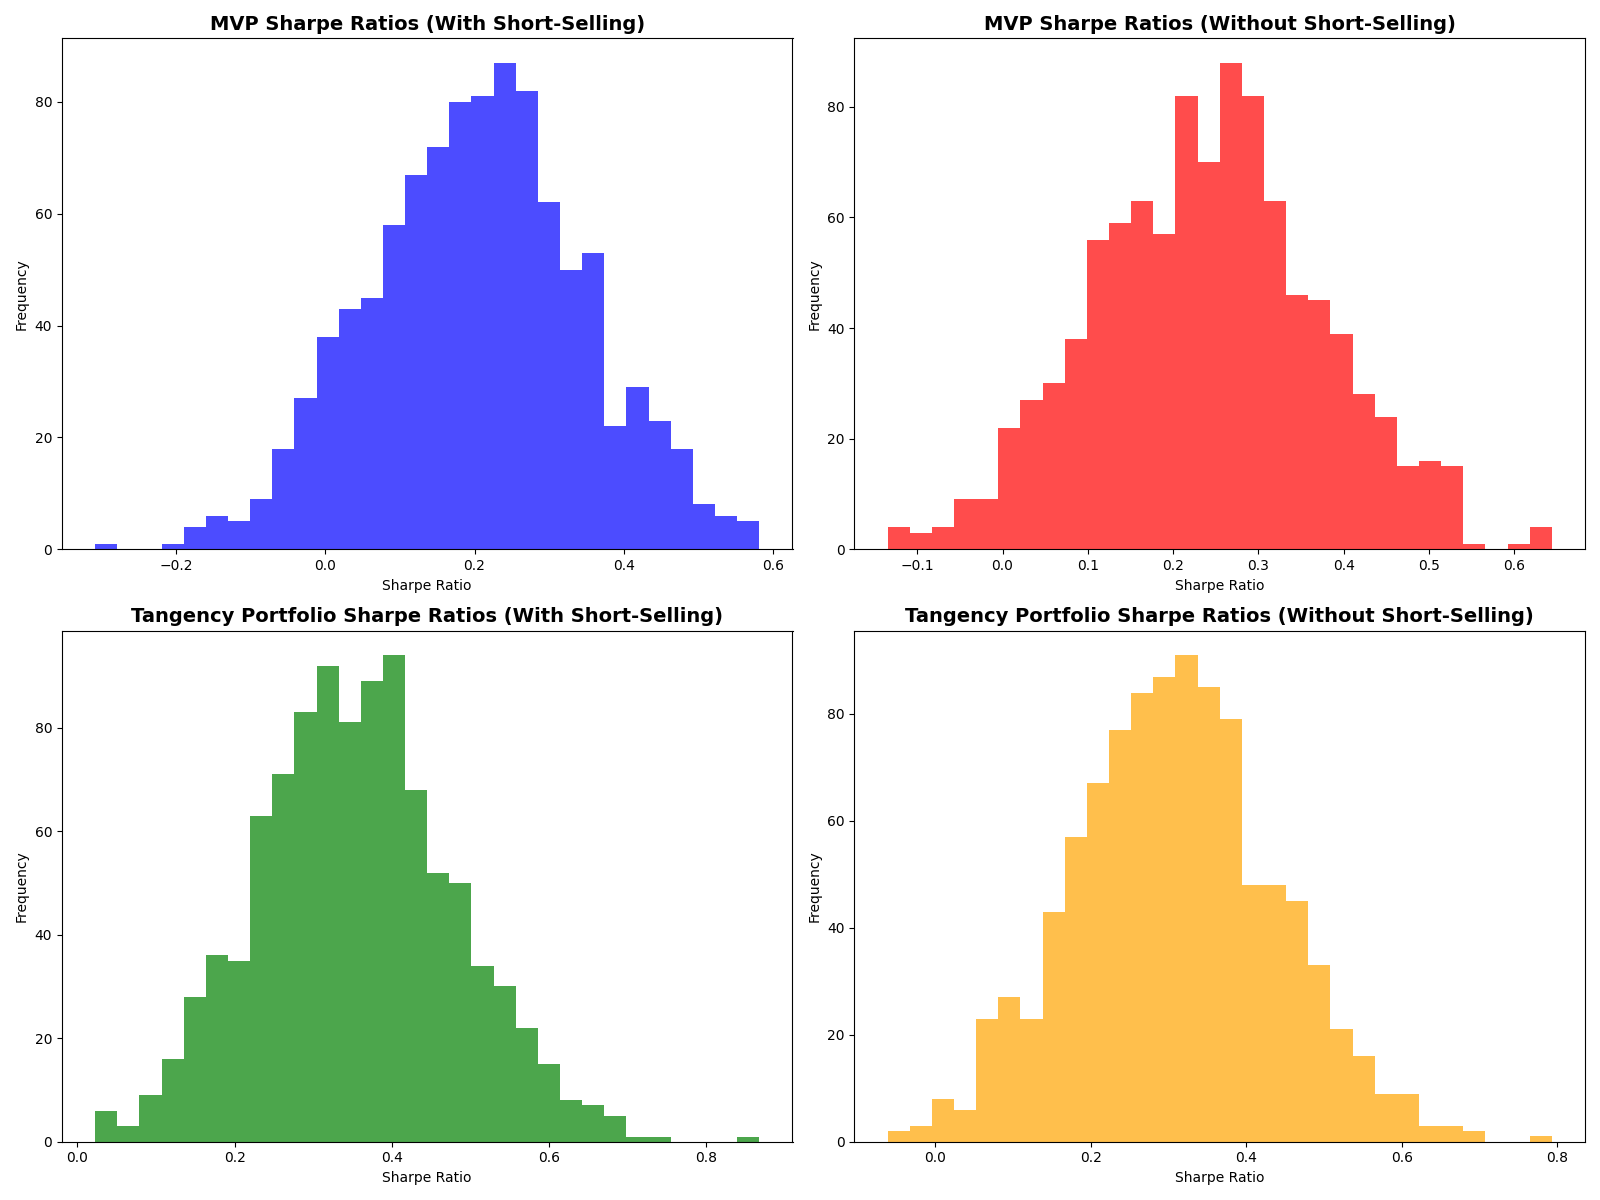
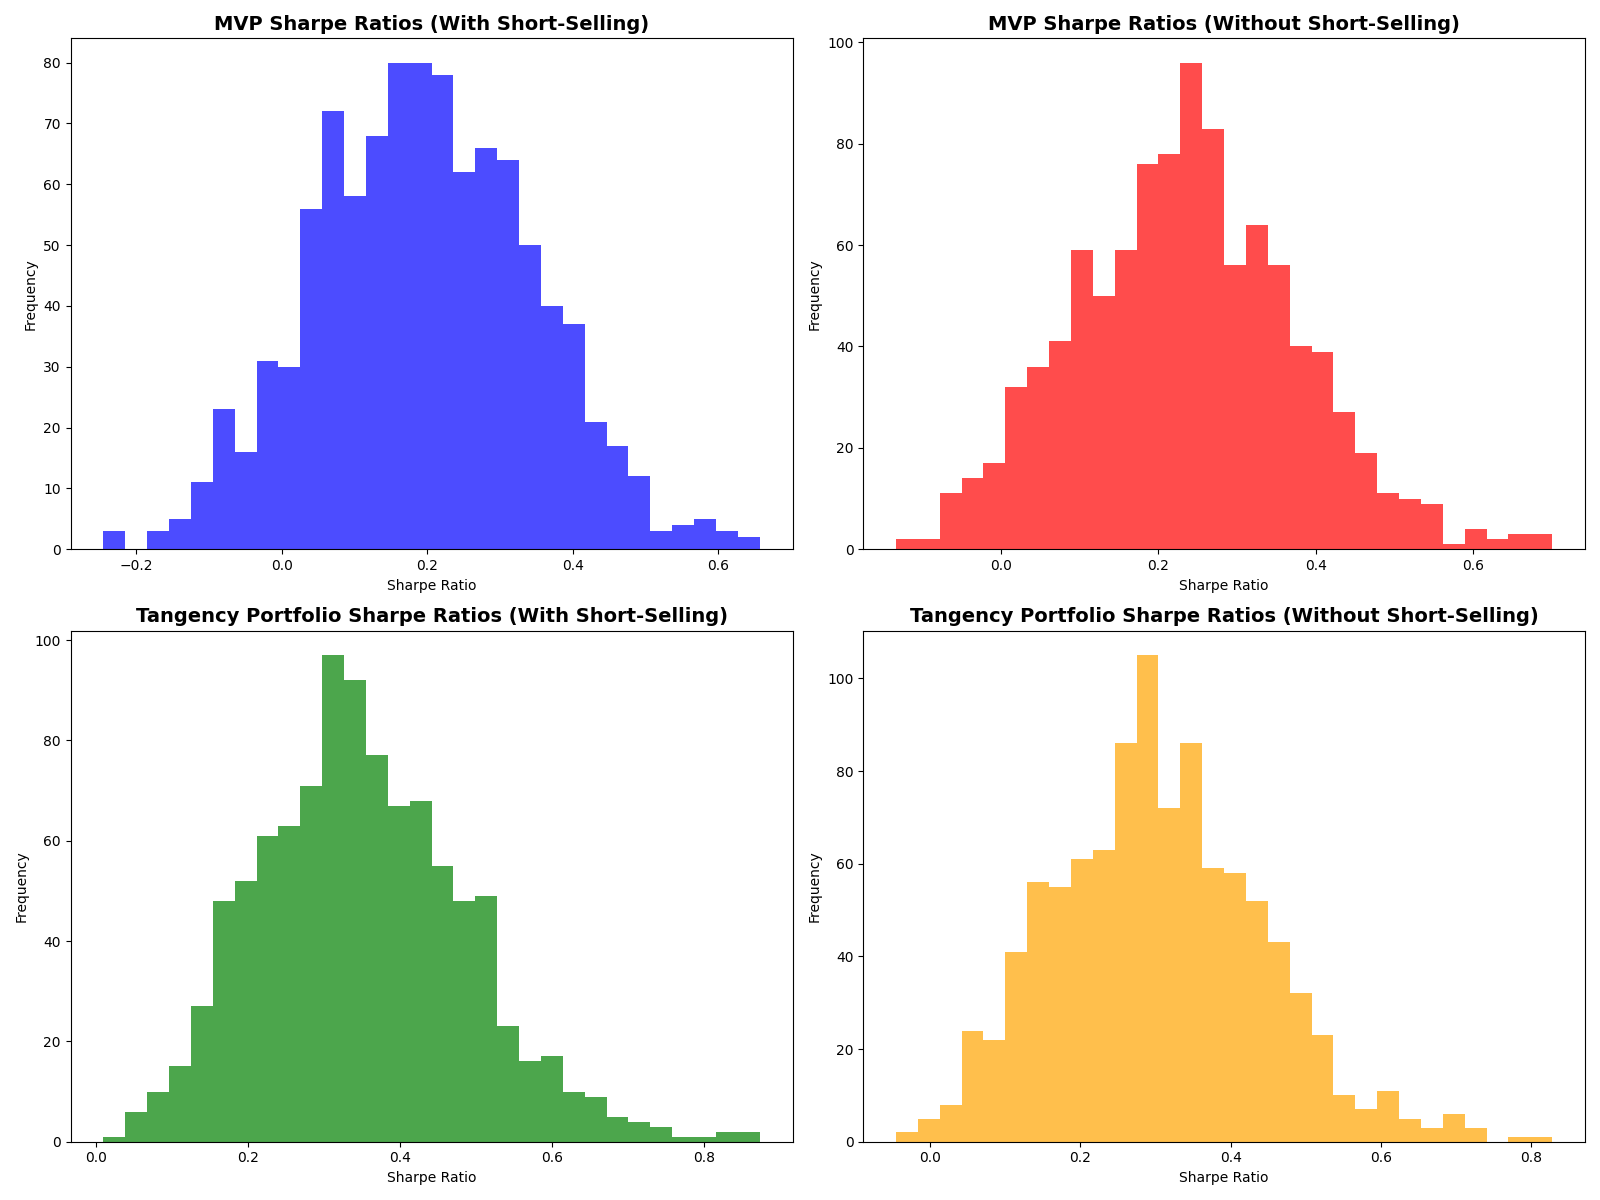
send

diff --git a/Projet.py b/Projet.py
@@ -7,8 +7,8 @@ from scipy.optimize import minimize
 import matplotlib.pyplot as plt
 import matplotlib.ticker as mtick
 import sympy as sp
-import matplotlib.colors as mcolors
-import matplotlib.cm as cm
+import random
+from sklearn.covariance import LedoitWolf
 
 # Remove future warnings
 warnings.simplefilter(action='ignore', category=FutureWarning)
@@ -978,3 +978,146 @@ plt.show()
 
 # B) 3. From all 48 industries, find up to 5 industries as a portfolio that has the highest Sharpe ratio (with short-selling and without short-selling portfolios)
 
+# Retrieve 48 industry portfolios from Kenneth French website
+def retrieve_full_industry_data():
+    industry_reader = web.famafrench.FamaFrenchReader('48_Industry_Portfolios', start='2019-12', end='2024-12')
+    portfolios_data = industry_reader.read()[0]  # First table contains the return data
+    portfolios_data = portfolios_data.replace([-99.99, -999], pd.NA).dropna()
+    industry_reader.close()
+    return portfolios_data / 100  # Convert percentage to decimal
+
+# Retrieve risk-free rate
+def retrieve_risk_free_rate():
+    rf_data = web.famafrench.FamaFrenchReader('F-F_Research_Data_Factors', start='2019-12', end='2024-12')
+    rf = rf_data.read()[0]['RF'] / 100  # Convert to decimal
+    return rf.mean()
+
+# Calculate portfolio Sharpe ratio
+def sharpe_ratio(weights, expected_returns, cov_matrix, rf_rate):
+    port_return = np.dot(weights, expected_returns)
+    port_risk = np.sqrt(np.dot(weights.T, np.dot(cov_matrix, weights)))
+    return (port_return - rf_rate) / port_risk
+
+# Monte Carlo optimization
+def monte_carlo_portfolio(returns, rf_rate, n_simulations=10000, allow_short_selling=True):
+    best_sharpe = -np.inf
+    best_selection = None
+    best_weights = None
+    
+    industries = returns.columns
+    
+    for _ in range(n_simulations):
+        selected_industries = random.sample(list(industries), 5)
+        subset_returns = returns[selected_industries]
+        expected_returns = subset_returns.mean()
+        cov_matrix = subset_returns.cov()
+        n_assets = len(expected_returns)
+        
+        # Objective function (negative Sharpe ratio to minimize)
+        def neg_sharpe(weights):
+            return -sharpe_ratio(weights, expected_returns, cov_matrix, rf_rate)
+        
+        # Constraints and bounds
+        constraints = ({'type': 'eq', 'fun': lambda x: np.sum(x) - 1})
+        bounds = [(-1, 1) if allow_short_selling else (0, 1) for _ in range(n_assets)]
+        
+        # Initial weights
+        initial_weights = np.ones(n_assets) / n_assets
+        
+        # Optimize
+        result = minimize(neg_sharpe, initial_weights, method='SLSQP', bounds=bounds, constraints=constraints)
+        
+        if result.success and -result.fun > best_sharpe:
+            best_sharpe = -result.fun
+            best_selection = selected_industries
+            best_weights = result.x
+    
+    return best_selection, best_weights, best_sharpe
+
+# Main execution
+portfolios_data = retrieve_full_industry_data()
+rf_rate = retrieve_risk_free_rate()
+
+# Find the best portfolios using Monte Carlo
+best_industries_short, best_weights_short, best_sharpe_short = monte_carlo_portfolio(portfolios_data, rf_rate, 10000, True)
+best_industries_noshort, best_weights_noshort, best_sharpe_noshort = monte_carlo_portfolio(portfolios_data, rf_rate, 10000, False)
+
+# Display results
+print("Best Portfolio With Short Selling:")
+print(dict(zip(best_industries_short, best_weights_short)))
+print(f"Sharpe Ratio: {best_sharpe_short:.4f}\n")
+
+print("Best Portfolio Without Short Selling:")
+print(dict(zip(best_industries_noshort, best_weights_noshort)))
+print(f"Sharpe Ratio: {best_sharpe_noshort:.4f}\n")
+
+
+
+
+
+
+
+# B) 4. Implement MAXSER approach to portfolio allocation for the 48 industries
+# Apply shrinkage estimation to the covariance matrix
+def estimate_cov_matrix(returns):
+    lw = LedoitWolf()
+    return lw.fit(returns).covariance_
+
+# Calculate portfolio Sharpe ratio
+def sharpe_ratio(weights, expected_returns, cov_matrix, rf_rate):
+    port_return = np.dot(weights, expected_returns)
+    port_risk = np.sqrt(np.dot(weights.T, np.dot(cov_matrix, weights)))
+    return (port_return - rf_rate) / port_risk
+
+# Monte Carlo optimization with MAXSER
+def monte_carlo_maxser(returns, rf_rate, n_simulations=10000, allow_short_selling=True):
+    best_sharpe = -np.inf
+    best_selection = None
+    best_weights = None
+    
+    industries = returns.columns
+    
+    for _ in range(n_simulations):
+        selected_industries = random.sample(list(industries), 5)
+        subset_returns = returns[selected_industries]
+        expected_returns = subset_returns.mean()
+        cov_matrix = estimate_cov_matrix(subset_returns)
+        n_assets = len(expected_returns)
+        
+        # Objective function (negative Sharpe ratio to minimize)
+        def neg_sharpe(weights):
+            return -sharpe_ratio(weights, expected_returns, cov_matrix, rf_rate)
+        
+        # Constraints and bounds
+        constraints = ({'type': 'eq', 'fun': lambda x: np.sum(x) - 1})
+        bounds = [(-1, 1) if allow_short_selling else (0, 1) for _ in range(n_assets)]
+        
+        # Initial weights
+        initial_weights = np.ones(n_assets) / n_assets
+        
+        # Optimize
+        result = minimize(neg_sharpe, initial_weights, method='SLSQP', bounds=bounds, constraints=constraints)
+        
+        if result.success and -result.fun > best_sharpe:
+            best_sharpe = -result.fun
+            best_selection = selected_industries
+            best_weights = result.x
+    
+    return best_selection, best_weights, best_sharpe
+
+# Main execution
+portfolios_data = retrieve_full_industry_data()
+rf_rate = retrieve_risk_free_rate()
+
+# Find the best portfolios using Monte Carlo with MAXSER
+best_industries_short, best_weights_short, best_sharpe_short = monte_carlo_maxser(portfolios_data, rf_rate, 10000, True)
+best_industries_noshort, best_weights_noshort, best_sharpe_noshort = monte_carlo_maxser(portfolios_data, rf_rate, 10000, False)
+
+# Display results
+print("Best Portfolio With Short Selling (MAXSER):")
+print(dict(zip(best_industries_short, best_weights_short)))
+print(f"Sharpe Ratio: {best_sharpe_short:.4f}\n")
+
+print("Best Portfolio Without Short Selling (MAXSER):")
+print(dict(zip(best_industries_noshort, best_weights_noshort)))
+print(f"Sharpe Ratio: {best_sharpe_noshort:.4f}\n")
